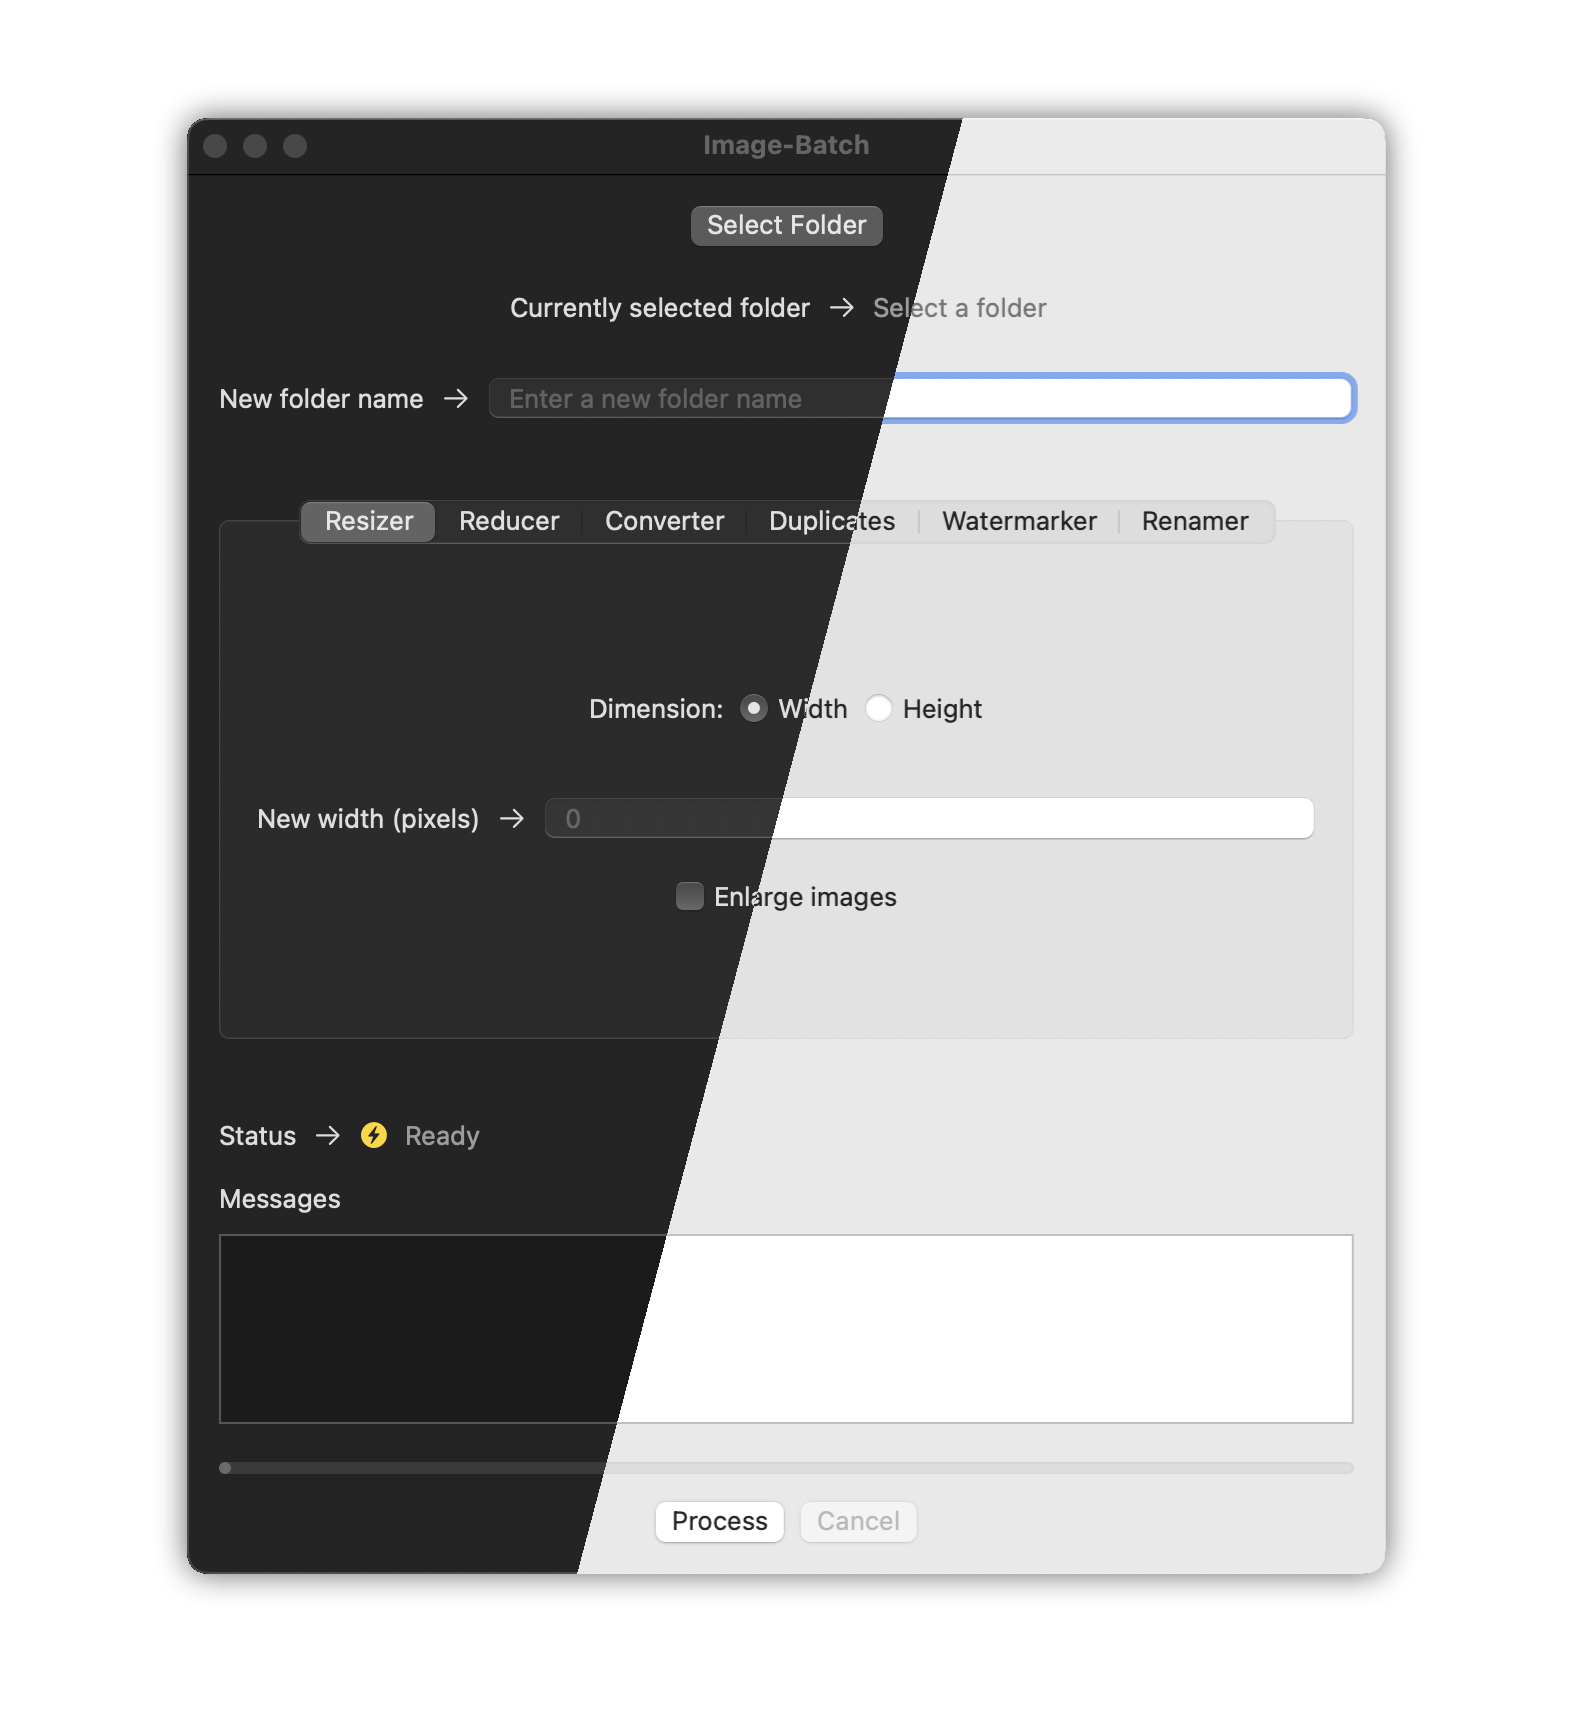
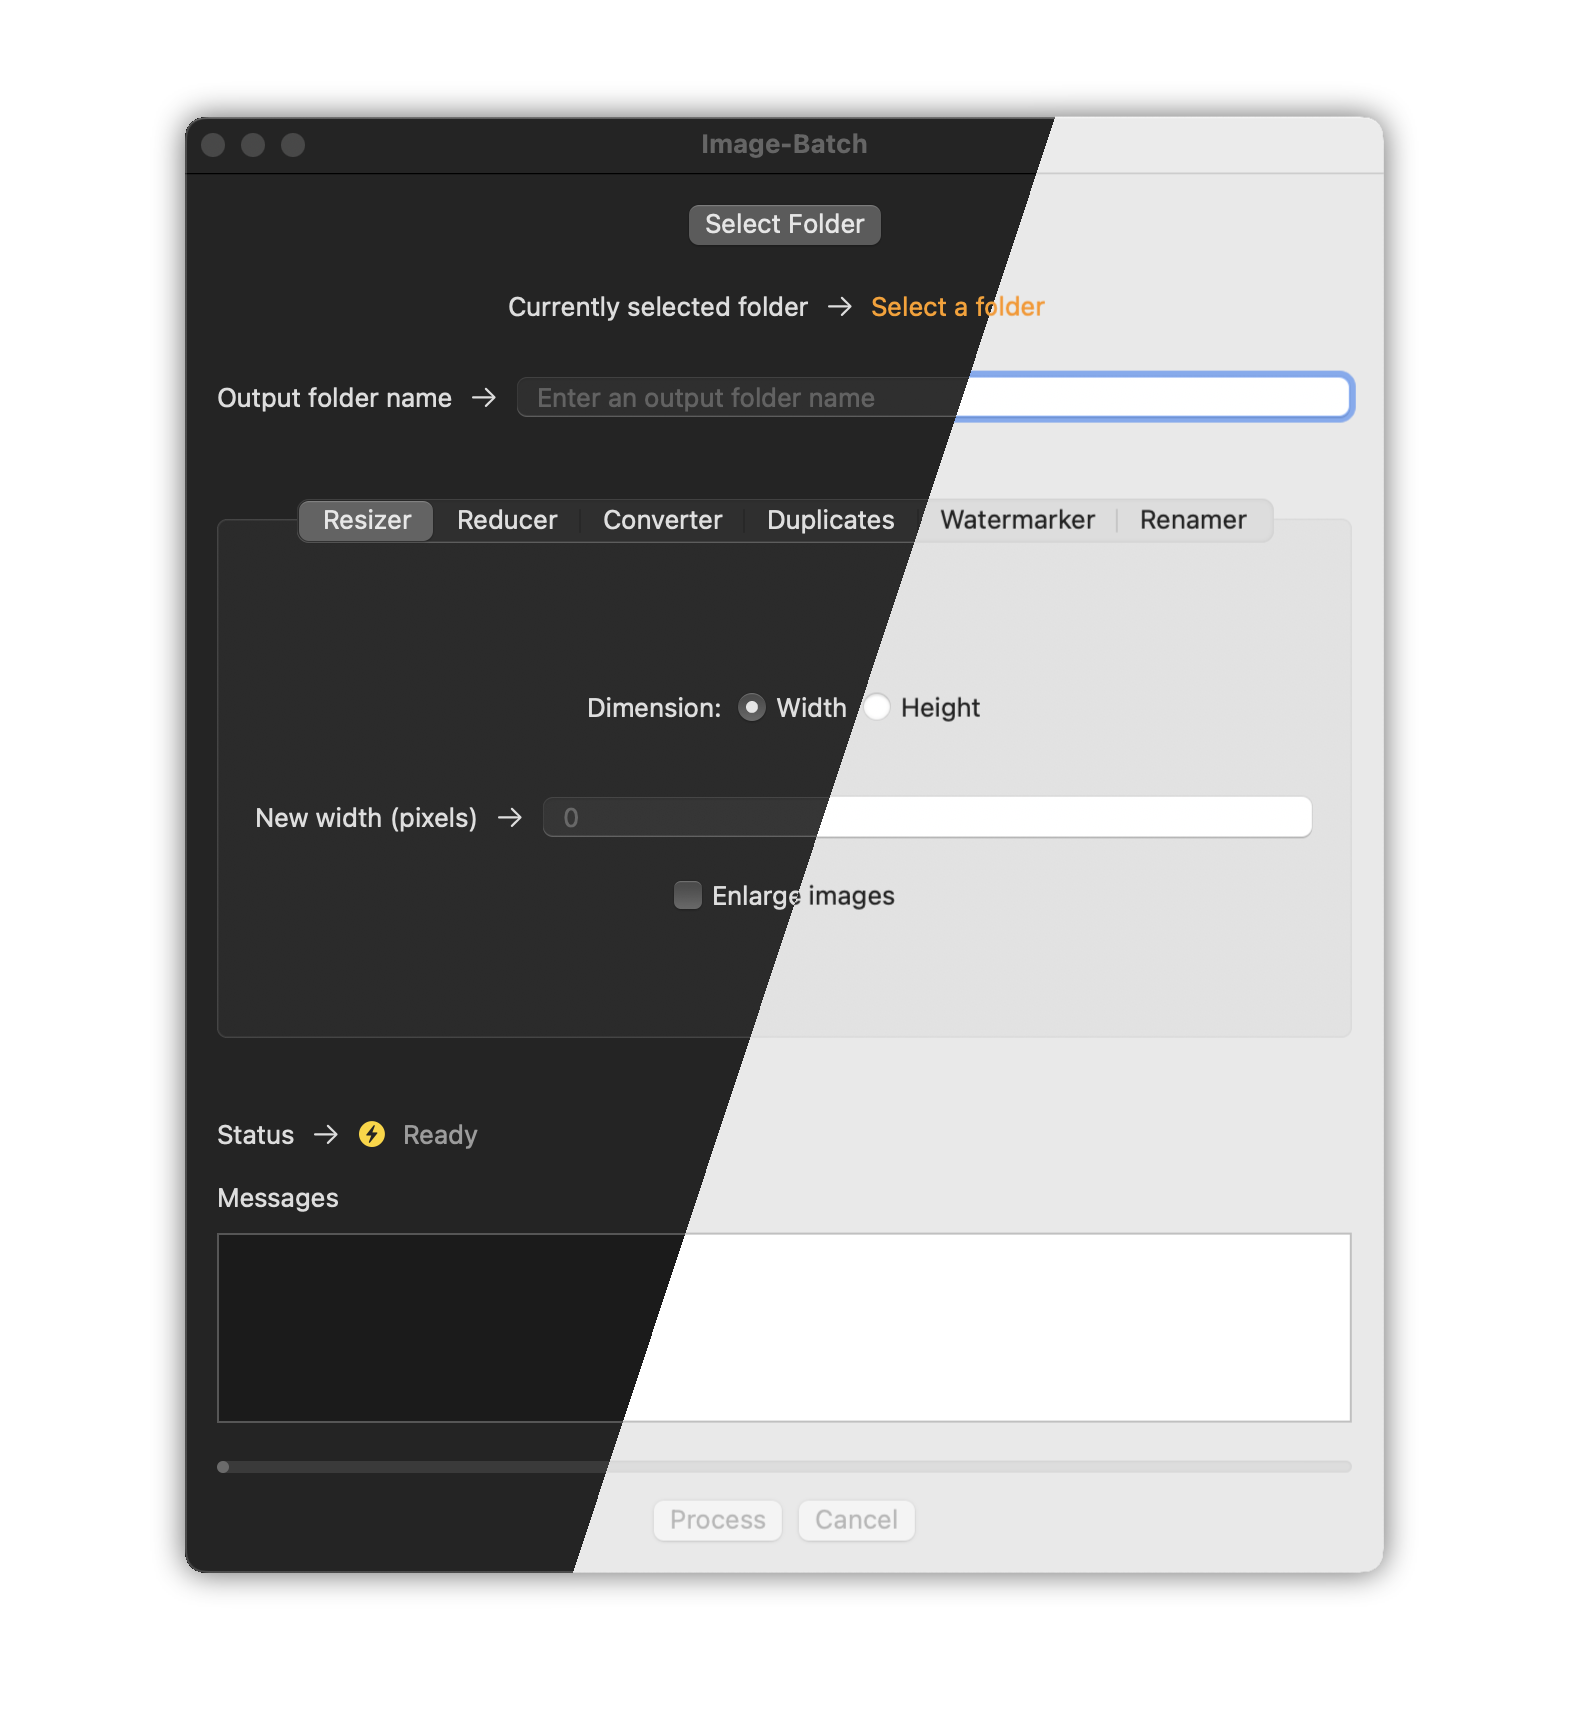
image update

diff --git a/index.html b/index.html
@@ -188,7 +188,7 @@
                     <div class="column right">
                         <div>
                             <h2 class="feature-title">Safety</h2>
-                            <h4 class="feature-text">Don’t worry about accidentally deleting your original images with the required new folder creation.</h4>
+                            <h4 class="feature-text">Don’t worry about accidentally deleting your original images with the required output folder creation.</h4>
                         </div>
                     </div>
                     <div class="column right-img">
